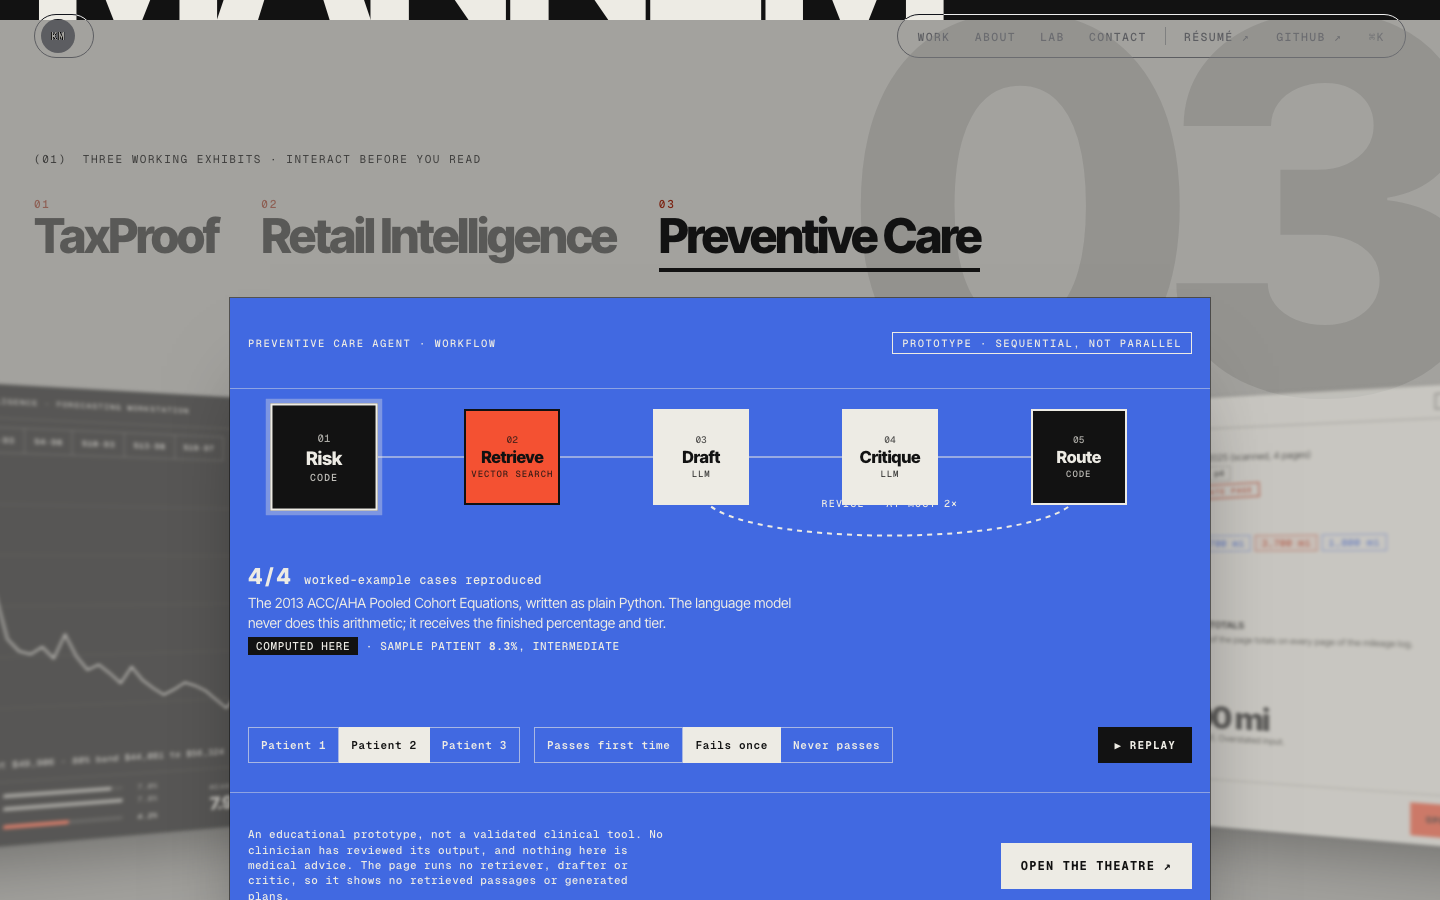
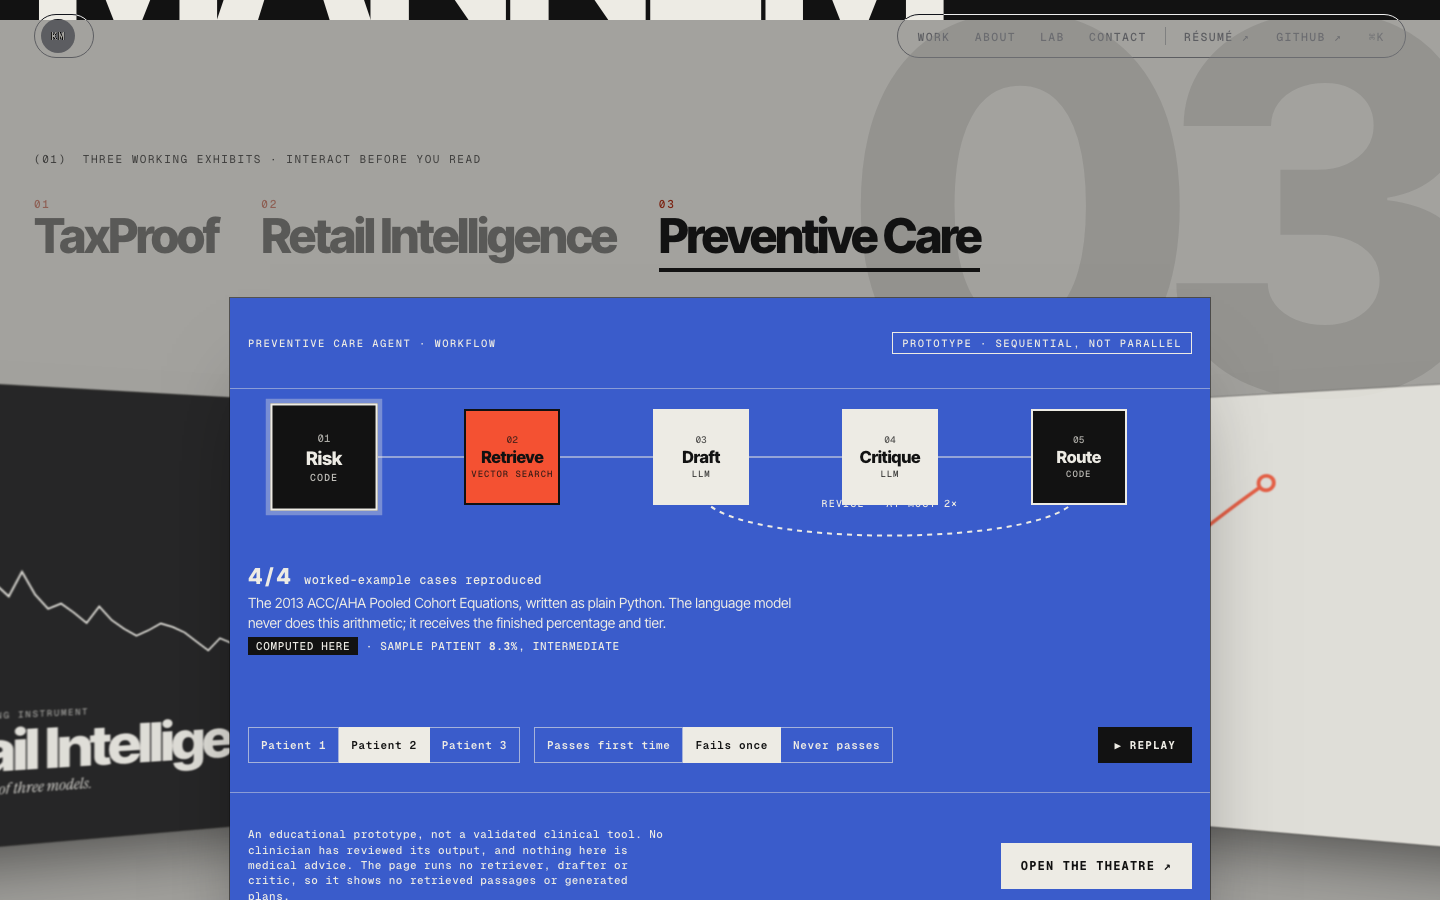
feat(exhibition): consistency and QA milestone: case-study fixes, narrow-layout fixes found in Safari, LCP fix, contrast, final QA record
- case headlines visible on first paint (Preventive Care mobile LCP 2.96 s to 1.61 s)
- TaxProof and Preventive miniatures stack their footers and let chain rows size to content on narrow windows
- electric blue deepened to #3A5CCB for 4.5:1 contrast
- interactive targets raised to at least 24 px (most 32 to 44 px)
- docs/QA_FINAL.md separates what was observed in this milestone from earlier reports; screenshots refreshed at 390, 768, 1024 and 1440 px plus two real Mobile Safari (iOS Simulator) captures

diff --git a/app/exhibit/exhibit.css b/app/exhibit/exhibit.css
@@ -605,3 +605,33 @@
 @media (prefers-reduced-motion: reduce) { .cx__card, .cn__bar { transition: none; } }
 .exnav.is-blue { mix-blend-mode: normal; }
 @media (prefers-reduced-motion: reduce) { html { scroll-behavior: auto; } }
+
+/* ── target sizes: nothing interactive under 24px, most at 36px or more ───────────────────── */
+.ex-foot--full a { display: inline-flex; align-items: center; min-height: 36px; min-width: 44px; padding: 0 4px; }
+.arc__sub a, .ex-open__index a { display: inline-block; padding: 5px 2px; }
+.cs .cs-links a { display: inline-flex; align-items: center; min-height: 36px; }
+.cs .cs-check { min-height: 32px; } .cs .cs-check input { width: 20px; height: 20px; }
+.cs summary { display: flex; align-items: center; min-height: 36px; cursor: pointer; }
+.lib-tab { height: 32px; min-width: 44px; }
+.cs-seg button, .cs-chip { min-height: 32px; }
+
+/* ── narrow TaxProof chain: rows size to their content so the stamp never lands on the next label ── */
+@container (max-width: 720px) {
+  .tm__chain { grid-template-rows: none; grid-auto-rows: auto; align-content: start; gap: 6px; overflow-y: auto; }
+  .tm-row { padding-bottom: 4px; }
+  .tm__warn { rotate: 0deg; margin: 8px 0 2px; }
+}
+/* ── overlay bar on a phone ── */
+@media (max-width: 640px) {
+  .gx-over__bar { padding-top: max(10px, env(safe-area-inset-top)); }
+  .gx-over__close, .gx-over__case { font-size: 10.5px; letter-spacing: .05em; gap: 6px; }
+}
+.lib-credit { display: inline-flex; align-items: center; min-height: 32px; }
+.cs .cs-check input { width: 24px; height: 24px; }
+.cs .cs-src a, .cs-small a { display: inline-block; padding: 4px 0; }
+.cs button { min-height: 28px; }
+@container (max-width: 720px) {
+  .tm__foot, .pm__foot { flex-direction: column; align-items: stretch; gap: 10px; }
+  .tm__foot p, .pm__foot p { max-width: none; }
+  .tm__foot .mw-open, .pm__foot .mw-open { width: 100%; justify-content: center; text-align: center; }
+}

diff --git a/app/components/case/RetailCase.tsx b/app/components/case/RetailCase.tsx
@@ -46,7 +46,7 @@ export default function RetailCase() {
         <div className="container">
           <Link className="cs-back" href="/#work">← The exhibition</Link>
           <p className="cs-eyebrow">Case study 01 · Forecasting, anomaly detection, an auditable agent</p>
-          <motion.h1 className="cs-h1" initial={{ opacity: 0, y: 28 }} animate={{ opacity: 1, y: 0 }} transition={{ duration: 0.8, ease: EASE }}>
+          <motion.h1 className="cs-h1" initial={{ y: 22 }} animate={{ y: 0 }} transition={{ duration: 0.8, ease: EASE }}>
             Demand forecasts that are <em>honest</em> about their own accuracy.
           </motion.h1>
 

diff --git a/app/components/case/PreventiveCase.tsx b/app/components/case/PreventiveCase.tsx
@@ -42,7 +42,7 @@ export default function PreventiveCase() {
         <div className="container">
           <Link className="cs-back" href="/#work">← The exhibition</Link>
           <p className="cs-eyebrow">Case study 03 · Agentic RAG, deterministic risk, critic loop</p>
-          <motion.h1 className="cs-h1" initial={{ opacity: 0, y: 28 }} animate={{ opacity: 1, y: 0 }} transition={{ duration: 0.8, ease: EASE }}>
+          <motion.h1 className="cs-h1" initial={{ y: 22 }} animate={{ y: 0 }} transition={{ duration: 0.8, ease: EASE }}>
             An agent that keeps the <em>arithmetic</em> out of the model.
           </motion.h1>
 

diff --git a/app/components/case/TaxProofCase.tsx b/app/components/case/TaxProofCase.tsx
@@ -82,7 +82,7 @@ export default function TaxProofCase() {
         <div className="container">
           <Link className="cs-back" href="/#work">← The exhibition</Link>
           <p className="cs-eyebrow">Case study 02 · Evidence graph, audit chain, guarded AI</p>
-          <motion.h1 className="cs-h1" initial={{ opacity: 0, y: 28 }} animate={{ opacity: 1, y: 0 }} transition={{ duration: 0.8, ease: EASE }}>
+          <motion.h1 className="cs-h1" initial={{ y: 22 }} animate={{ y: 0 }} transition={{ duration: 0.8, ease: EASE }}>
             A tax return where every number can show its <em>proof</em>.
           </motion.h1>
 

diff --git a/app/globals.css b/app/globals.css
@@ -103,7 +103,7 @@
   --muted-hi:  #A3A29E;   /* soft grey */
   --signal:    #70D5B3;   /* data and status only */
   --ivory:     #EDEBE4;
-  --blue:      #4169E1;
+  --blue:      #3A5CCB;   /* electric blue, deepened from #4169E1 so paper text on it and it on paper both clear 4.5:1 */
   --ink:       #121212;
   --paper:     #EDEBE4;
   --orange-ink: #C8381B;   /* signal orange darkened for text on paper (4.6:1) */

diff --git a/docs/QA_FINAL.md b/docs/QA_FINAL.md
@@ -1,0 +1,77 @@
+# Final QA: consistency milestone (`redesign/exhibition`)
+
+This file separates what was **observed in this milestone** from what earlier documents reported. Earlier documents (`QA_REPORT.md`, `EXHIBITION_REDESIGN.md`) describe earlier states of the site; their numbers were not re-measured here unless a row below says so.
+
+## Observed in this milestone
+
+### Project checks (run on the final commit)
+| Check | Result |
+|---|---|
+| `tsc --noEmit` | clean |
+| `eslint` | 0 errors, 1 warning (an unused variable in `EvidenceGraph.tsx`, present before this milestone) |
+| `vitest` | 38 of 38 pass (the ECHO//SHIFT engine; there are no tests for the portfolio pages) |
+| `next build` | succeeds; 11 routes, `/work/archive`, `/play`, `/lab` and the three case studies are static |
+| `sync:check` | résumé and site agree |
+
+### Real-input browser suites, headless Chrome on this Mac, against `next start`
+103 checks in 8 suites, all passing on the final build. Method: Chrome DevTools protocol with genuine mouse, key, touch and scroll events.
+
+| Suite | Checks | What it covers |
+|---|---|---|
+| layout | 28 | 7 pages × 390, 768, 1024, 1440 px: no horizontal overflow, no content spilling outside its box, no interactive target under 24 px, no console errors |
+| links | 3 | every internal link on 7 pages returns 200 (30 unique hrefs; external links not fetched); 27 in-page anchors exist in the live DOM; no link to a removed section |
+| keys | 9 | Tab from the top to the footer in 52 stops without a trap, every stop named, visible focus ring on every stop, nothing inert focused; Enter opens an overlay, Escape returns focus to the opener; case-study section links work by keyboard |
+| touch | 5 | a vertical swipe on the chart scrolls the page; the series strip and the on-this-page strip scroll sideways; no horizontal page scroll; the sticky bar stays stuck |
+| motion | 4 | rAF frame cadence while switching exhibits and opening an overlay, at 1440 and at 390 with 4× CPU slowdown |
+| new | 9 | covers and preserved state; the dossier opening at the selected line and its way back to the cover; the 390 px Retail miniature (nothing spills, 10 px axis labels, 36 px Expand button); the 390 px Observatory (chart starts at 381 px, metrics 81 px tall) |
+| gallery | 28 | the earlier gallery suite: keyboard index, clicking a receding window, each miniature, overlay focus handling, phone fit, reduced motion, console errors |
+| game | 17 | the ECHO//SHIFT regression suite |
+
+### Real Mobile Safari (iOS Simulator, iPhone 17 Pro, iOS 26.5, WebKit)
+Driven by touch: home page loaded; scrolled; "Enter the exhibition" scrolled to the gallery; the TaxProof workpaper, the Retail miniature and the full-screen Observatory (opened by tap) were viewed. Safari found two layout defects Chrome did not (a rotated stamp colliding with the next label, and the footnote squeezed into a one-word column); both were fixed and the stamp fix was re-confirmed in Safari. Captures: `safari-ios-simulator-*.png`. This is a simulator, not a device.
+
+### Defects found by this QA and fixed
+- `body { overflow-x: hidden }` made `body` a scroll container, so **every `position: sticky` on the site silently failed** (the new on-this-page bar, and the old case-study side rail). Now `overflow-x: clip`.
+- Preventive Care case study LCP was **2.96 s** on an emulated phone: the headline was server-rendered at opacity 0 and only appeared after hydration. Now visible on first paint: **1.61 s**.
+- Case-study back links, the old footer, and the palette pointed at `/#projects`, `/#experience`; the palette did nothing off the homepage. One shared footer; links reach `/#work`; the palette navigates.
+- Mobile Retail miniature was wider than its frame (a scrolling strip widened the grid track); chart labels were about 4 px. Now drawn at measured size, 10 px labels.
+- Narrow TaxProof chain: stamp over the next label; footnote squeezed. Fixed.
+- Nav turned amber over the blue opening (difference blending). Plain white while the blue opening is behind it.
+- Interactive targets under 24 px (footer links, case-study link rows, checkboxes, Library chips, summaries): raised.
+- Electric blue `#4169E1` gave 4.06:1 for paper text on it and for it as text on paper. Deepened to `#3A5CCB` (4.93:1 both ways). **This departs from the exact hex in the brief.**
+
+### Performance, production build, headless Chrome, cold cache, 390 px, 4× CPU, 1.6 Mbps, 150 ms RTT
+| Page | FCP / LCP | CLS | JS up front | Slowest real event |
+|---|---|---|---|---|
+| `/` | 1.66 s | 0 | 379 KB | 56 ms (project tab) |
+| `/work/retail-demand-intelligence` | 1.60 s | 0 | 474 KB | none |
+| `/work/taxproof` | 1.81 s | 0 | 472 KB | none |
+| `/work/preventive-care` | 1.61 s | 0 | 476 KB | none |
+| `/work/archive` | 1.54 s | 0 | 379 KB | none |
+
+Desktop, no throttle: `/` LCP 84 ms, CLS 0.017, slowest event 40 ms. Single cold loads, one interaction each: not Lighthouse and not a true INP.
+
+### Animation smoothness: what was and was not measured
+rAF cadence was a flat 16.7 ms (p95 16.8 ms, 0 % of frames over 50 ms) across exhibit switches and overlay opens, at 1440 and at 390 with 4× CPU throttle. Headless Chrome cannot see compositor or raster cost (the blur filters on receding windows, the overlay's growing rectangle), so this shows the main thread is not the bottleneck. It does **not** show the animation is smooth on a real phone.
+
+## Not tested
+- **Safari desktop.** Safari's WebDriver is disabled (it needs "Allow Remote Automation" in Safari's Developer settings; I did not change that).
+- **Keyboard use in Safari**, and the dossier, Theatre and game in Safari.
+- **A physical phone.** None was connected.
+- **A screen reader** (VoiceOver was not run). Accessible names, roles, live regions and focus order were checked programmatically only.
+- **Lighthouse** and a true INP over a session.
+- Frame rate on a real mid-range phone.
+
+## Remaining defects and risks
+1. When the dossier opens on a later spread (for example the calculated-output spread) the open book sits left of centre in its container.
+2. Case-study pages have new openings, a sticky section bar, paper sections and next-exhibit links, but their interactive explorers are the earlier components in new colours; only the problem and decisions sections are on paper.
+3. Kokonut Page Flip (`initialSpread`) and AI Diff Review (`readOnly`, `defaultOpen`) are vendored with small documented local changes; upgrading them means re-applying those.
+4. Kokonut Scroll Index is installed but not used on any page. `/api/chat` and `/api/contact` exist and nothing calls them.
+5. The deeper blue differs from the brief's hex (see above).
+6. The mobile Lightbox grid is a cramped mosaic.
+7. The `mix-blend-mode: difference` navigation is clever but fragile on saturated backgrounds; the blue opening needed a special case.
+
+## Merge-readiness evidence (not a claim that it should merge)
+- All project checks and 103 browser checks pass on the final commit; no known failing check.
+- Branch is pushed; nothing is merged or deployed.
+- The unverified areas above (desktop Safari, a physical phone, a screen reader, real-device frame rate) are the honest gap between "passes everything I could run" and "verified on the devices people use".
